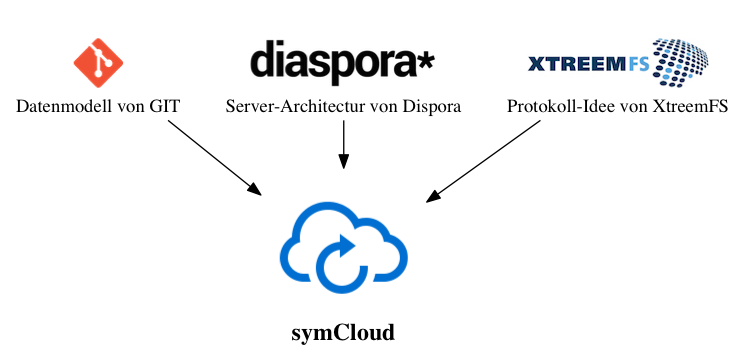
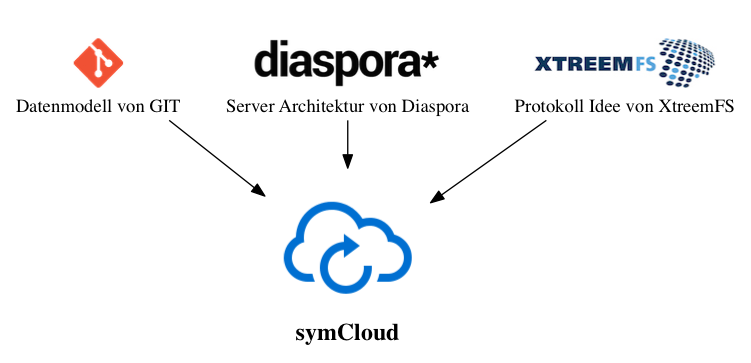
fixed typos

diff --git a/index.html b/index.html
@@ -53,7 +53,7 @@
 <li>Einführung</li>
 <li>Resultate</li>
 <li>Implementierung</li>
-<li>Probleme und Fazit</li>
+<li>Herausforderungen und Fazit</li>
 </ul>
 </section></section>
 <section><section id="einführung" class="titleslide slide level1"><h1>Einführung</h1></section><section id="owncloud" class="slide level2 hide-header">
@@ -62,8 +62,8 @@
 <img src="img/owncloud-logo.png" alt="" />
 </figure>
 <ul>
-<li>Quellofenes Filehosting Portal</li>
-<li>Alternative zu kommerziellen Betreibern</li>
+<li>Quelloffenes Filehosting Portal</li>
+<li>Alternative zu kommerziellen Anbietern</li>
 </ul>
 </section><section id="kolaboration" class="slide level2 hide-header">
 <h1>Kolaboration</h1>
@@ -85,8 +85,8 @@
 <img src="img/diaspora-logo.png" alt="" />
 </figure>
 <ul>
-<li>Dezantrales soziales Netzwerk</li>
-<li>Serverübergreifende Komunikation</li>
+<li>Dezentrales soziales Netzwerk</li>
+<li>Serverübergreifende Kommunikation</li>
 </ul>
 </section><section id="ziele" class="slide level2">
 <h1>Ziele</h1>
@@ -107,7 +107,7 @@
 <ul>
 <li>Verteilte Daten - Diaspora</li>
 <li>Verteilte Datenmodelle - GIT</li>
-<li>Objekt - Speicherdienste</li>
+<li>Objekt Speicherdienste - Amazon S3</li>
 <li>Verteilte Dateisysteme - NFS und XtreemFS</li>
 <li>Datenbankgestützte Dateiverwaltung - GridFS</li>
 </ul>
@@ -117,13 +117,13 @@
 <img src="img/combination.png" alt="" />
 </figure>
 </section></section>
-<section><section id="implementierung" class="titleslide slide level1"><h1>Implementierung</h1></section><section id="technology" class="slide level2">
-<h1>Technology</h1>
+<section><section id="implementierung" class="titleslide slide level1"><h1>Implementierung</h1></section><section id="technologien" class="slide level2">
+<h1>Technologien</h1>
 <figure>
 <img src="img/symfony-php-logo.jpg" alt="" />
 </figure>
 </section><section id="bibliothek---distributed-storage" class="slide level2 smaller-title">
-<h1>Bibliothek - distributed storage</h1>
+<h1>Bibliothek - “distributed storage”</h1>
 <figure>
 <img src="img/distributed-storage.png" alt="" />
 </figure>
@@ -131,21 +131,21 @@
 <h1>Plattform - symCloud</h1>
 <p><img src="img/sulu_symcloud_file_list.png" alt="" /> <img src="img/sulu_symcloud_add_form.png" alt="" /></p>
 </section><section id="synchronisierung---jibe" class="slide level2 smaller-title">
-<h1>Synchronisierung - jibe</h1>
+<h1>Synchronisierung - “jibe”</h1>
 <figure>
 <img src="img/jibe.png" alt="" />
 </figure>
 </section></section>
-<section><section id="fazit-und-probleme" class="titleslide slide level1"><h1>Fazit und Probleme</h1></section><section id="probleme" class="slide level2">
-<h1>Probleme</h1>
+<section><section id="fazit-und-herausforderungen" class="titleslide slide level1"><h1>Fazit und Herausforderungen</h1></section><section id="herausforderungen" class="slide level2">
+<h1>Herausforderungen</h1>
 <ul>
-<li>Immutable - unveränderbare Objkte</li>
+<li>Immutable - unveränderbare Objekte</li>
 <li>Performance Verteilungsprotokoll</li>
 </ul>
 </section><section id="fazit" class="slide level2">
 <h1>Fazit</h1>
 </section></section>
-<section><section id="end" class="titleslide slide level1 combine"><h1>END</h1></section><section class="slide level2">
+<section><section id="ende" class="titleslide slide level1 combine"><h1>Ende</h1></section><section class="slide level2">
 
 <figure>
 <img src="img/symcloud-tag-cloud.png" alt="Erstellt mit wordle.net" /><figcaption><small>Erstellt mit <a href="http://www.wordle.net">wordle.net</a></small></figcaption>

diff --git a/index.md b/index.md
@@ -19,7 +19,7 @@
 * Einführung
 * Resultate
 * Implementierung
-* Probleme und Fazit
+* Herausforderungen und Fazit
 
 # Einführung
 
@@ -27,8 +27,8 @@
 
 ![](img/owncloud-logo.png)
 
-* Quellofenes Filehosting Portal
-* Alternative zu kommerziellen Betreibern
+* Quelloffenes Filehosting Portal
+* Alternative zu kommerziellen Anbietern
 
 ## Kolaboration {.hide-header}
 
@@ -46,8 +46,8 @@
 
 ![](img/diaspora-logo.png)
 
-* Dezantrales soziales Netzwerk
-* Serverübergreifende Komunikation
+* Dezentrales soziales Netzwerk
+* Serverübergreifende Kommunikation
 
 ## Ziele
 
@@ -66,7 +66,7 @@
 
 * Verteilte Daten - Diaspora
 * Verteilte Datenmodelle - GIT
-* Objekt - Speicherdienste
+* Objekt Speicherdienste - Amazon S3
 * Verteilte Dateisysteme - NFS und XtreemFS
 * Datenbankgestützte Dateiverwaltung - GridFS
 
@@ -76,11 +76,11 @@
 
 # Implementierung
 
-## Technology
+## Technologien
 
 ![](img/symfony-php-logo.jpg)
 
-## Bibliothek - distributed storage {.smaller-title}
+## Bibliothek - "distributed storage" {.smaller-title}
 
 ![](img/distributed-storage.png)
 
@@ -89,20 +89,20 @@
 ![](img/sulu_symcloud_file_list.png)
 ![](img/sulu_symcloud_add_form.png)
 
-## Synchronisierung - jibe {.smaller-title}
+## Synchronisierung - "jibe" {.smaller-title}
 
 ![](img/jibe.png)
 
-# Fazit und Probleme
+# Fazit und Herausforderungen
 
-## Probleme 
+## Herausforderungen 
 
-* Immutable - unveränderbare Objkte
+* Immutable - unveränderbare Objekte
 * Performance Verteilungsprotokoll
 
 ## Fazit
 
-# END {.combine}
+# Ende {.combine}
 
 ***
 
